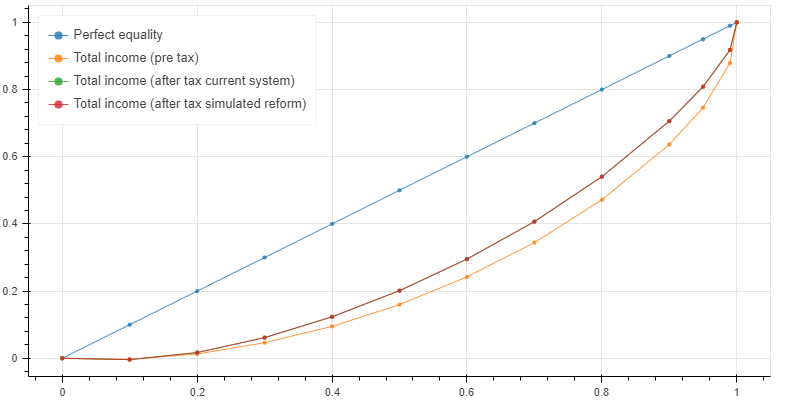
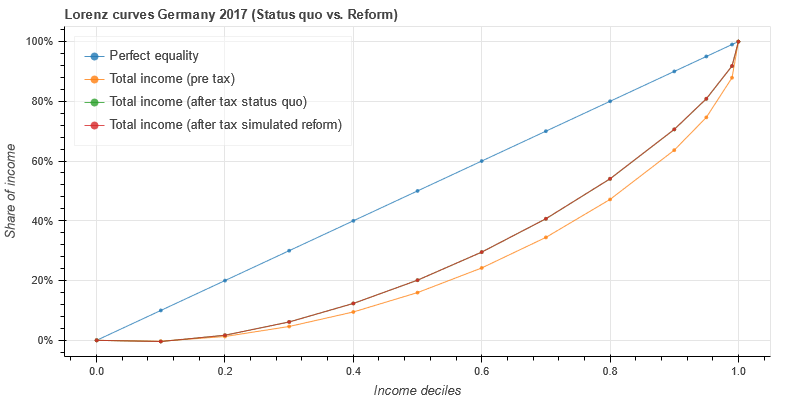
Update description texts

diff --git a/App/App/main.py b/App/App/main.py
@@ -54,9 +54,9 @@ attribute_dict = {
         "0€",
         "top_left",
         """Illustration of the individual mechanical effect of separate capital and labor
-        taxation of the status quo (S) compared to the reform with integrated income tax
-        system (R). Assumed is constant deduction behavior and  labor / capital supply.
-        Slicers select income combinations to be compared.""",
+        taxation at the status quo (S), compared to a reform with integrated income tax
+        system (R). Constant deduction behavior and  labor / capital supply assumed.
+        Sliders select income combinations to be compared.""",
     ],
     "lorenz_curves": [
         "Lorenz curves Germany 2017",
@@ -89,11 +89,11 @@ attribute_dict = {
         "",
         "0€",
         "top_left",
-        """Based on the changes to the effective tax rate (ΔETR) by decile this figure
-        illustrates for different elasticity levels the average change in reported total
-        tax base due to behavioral responses. Bottom three deciles omitted (as ΔETR=0).
+        """Based on the changes to the effective tax rate (ΔETR) by decile, this figure
+        illustrates the average change in reported total tax base due to behavioral
+        responses for different elasticity levels. Bottom three deciles are omitted (as ΔETR=0).
         The recovered portion can be used to simulate offsetting externalities like
-        evaded taxes, recovered in tax audits or income shifted to other tax bases or
+        evaded taxes recovered in tax audits or income shifted to other tax bases or
         periods.""",
     ],
     "revenue_bevavior": [
@@ -114,10 +114,12 @@ attribute_dict = {
         "top_left",
         """Lorenz curves for Germany 2017 after including the simulated changes to
         tax burden per decile. Capital income is small compared to total income for
-        all deciles. Changes are hardly visible in the lorenz curve.""",
+        all deciles. Changes in total income after tax are hardly visible in the
+        lorenz curve. The green curve for the status quo and the red curve for the
+        reform are very close to each other.""",
     ],
     "parameter_heatmap": [
-        "Parameter heatmap: Effect of the reform by behavioral response parameter values",
+        "Heatmap: Reform effect on tax revenue by behavioral response parameter values",
         "Recovered portion (Offsetting externalities to behavioral reactions)",
         "Elasticity of capital income",
         "0.0",

diff --git a/App/App/Scripts/parameter_heatmap.py b/App/App/Scripts/parameter_heatmap.py
@@ -69,7 +69,7 @@ def parameter_heatmap_tab(plot_dict, data):
             ticker=BasicTicker(desired_num_ticks=20),
             formatter=NumeralTickFormatter(format="0€"),
             label_standoff=12,
-            title="Reform revenue (in Mio. €)",
+            title="Reform revenue effect (in Mio. €)",
         )
         p.add_layout(color_bar, "right")
 
